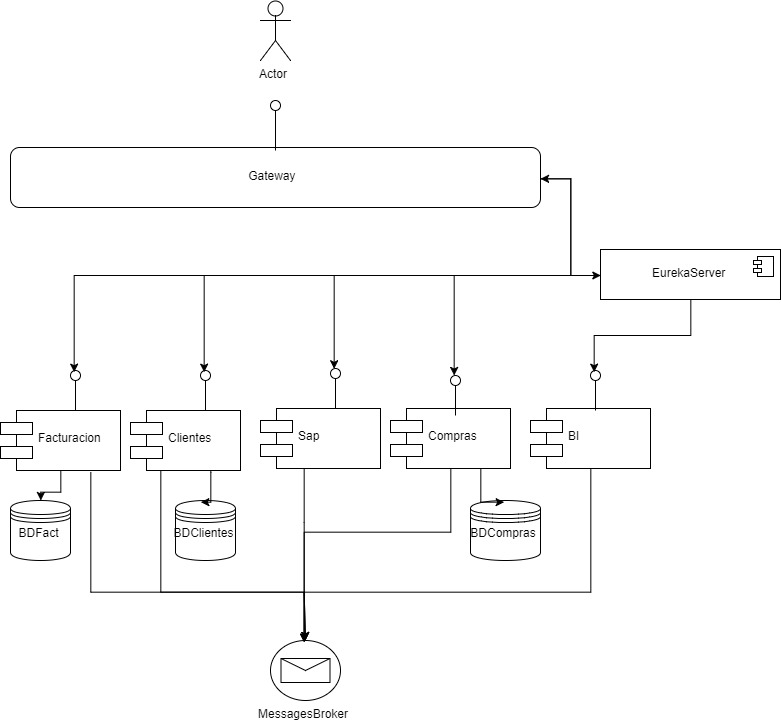
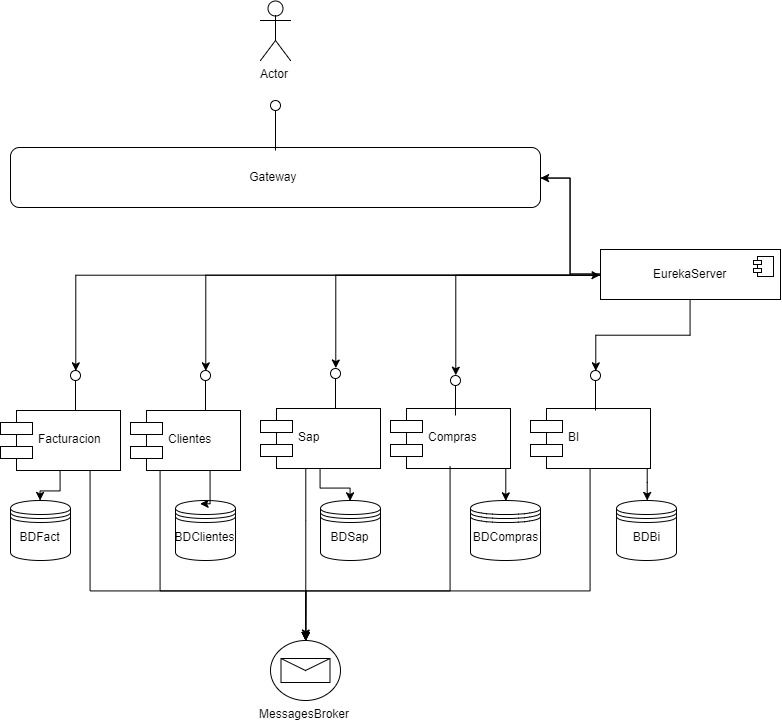
se actualiza diagra y readme con las ultimas modificaciones

diff --git a/README.md b/README.md
@@ -89,16 +89,32 @@ Es el componente que se encarga de asentar las facturas y generar el evento para
                     sin contraseña
 
 
+#### Ms-Compras
+El componente maneja la base de datos de compras y recibe la información desde el componente de clientes para amacenar clientes y desde el componente de SAP para las facturas
+- Rutas expuestas
+    - http://localhost:1111/proyecto-facturacion/mscompras/clientes retorna los clientes que se encuentran en el sistema de compras
+    - http://localhost:1111/proyecto-facturacion/mscompras/facturas retorna las facturas que se encuentran en el sistema de compras
+    - http://localhost:1116/h2 : ruta para acceder al servidor de db del ms, los datos de ingreso son:
+         
+            JDBC URL: jdbc:h2:file:~/compras
+            Usuario: compras
+            sin contraseña
+
 #### Ms-BI
 El componente de BI se alimenta de las facturas asentadas en en el componente de SAP para su tratamiento interno
-
-#### Ms-Compras
-Este componente maneja se propia base de datos de clientes y recibe la información desde el componente de clientes para su gestion
-También recibe informacion de las facturas asentadas desde sap para su tratamiento
+- Rutas expuestas
+    -  http://localhost:1111/proyecto-facturacion/msbi/facturas retorna las facturas que se encuentran en el sistema de BI
+    - http://localhost:1118/h2 : ruta para acceder al servidor de db del ms, los datos de ingreso son:
+        
+            JDBC URL: jdbc:h2:file:~/bi
+            Usuario: bi
+            sin contraseña
 
 ## Como correr el proyecto
 
-para levantar todos los microservicio se debe ejecutar el archivo "runAll.bat" que se encuentra en la raiz del proyecto 
+para levantar todos los microservicio se debe ejecutar el archivo "runAll.bat" que se encuentra en la raiz del proyecto
+
+para levantarlos prograsivamente se debe correr el archivo run.bat que se encuentra en la carpeta de cada microservicio 
 
 
 
